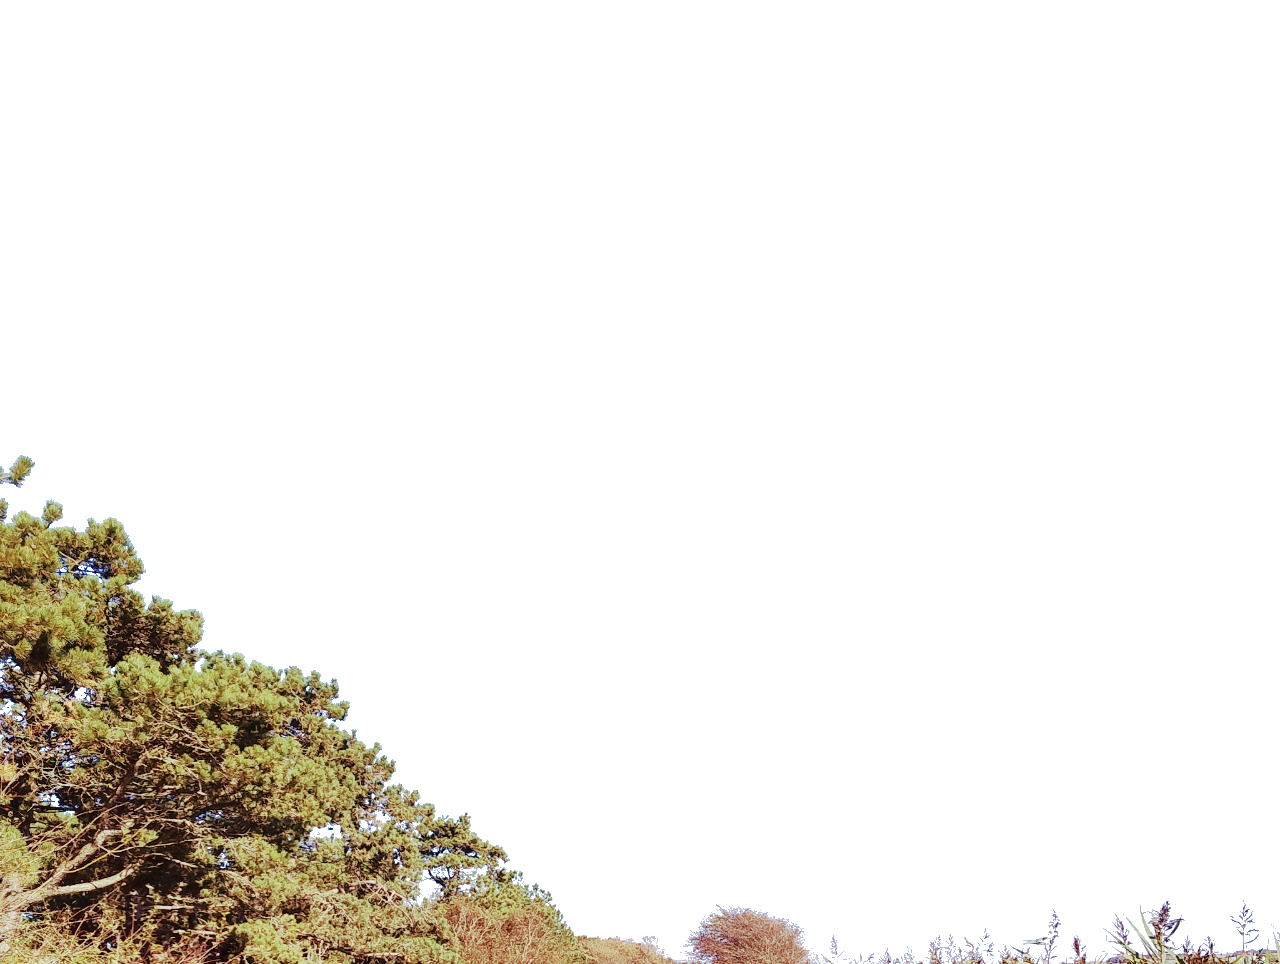
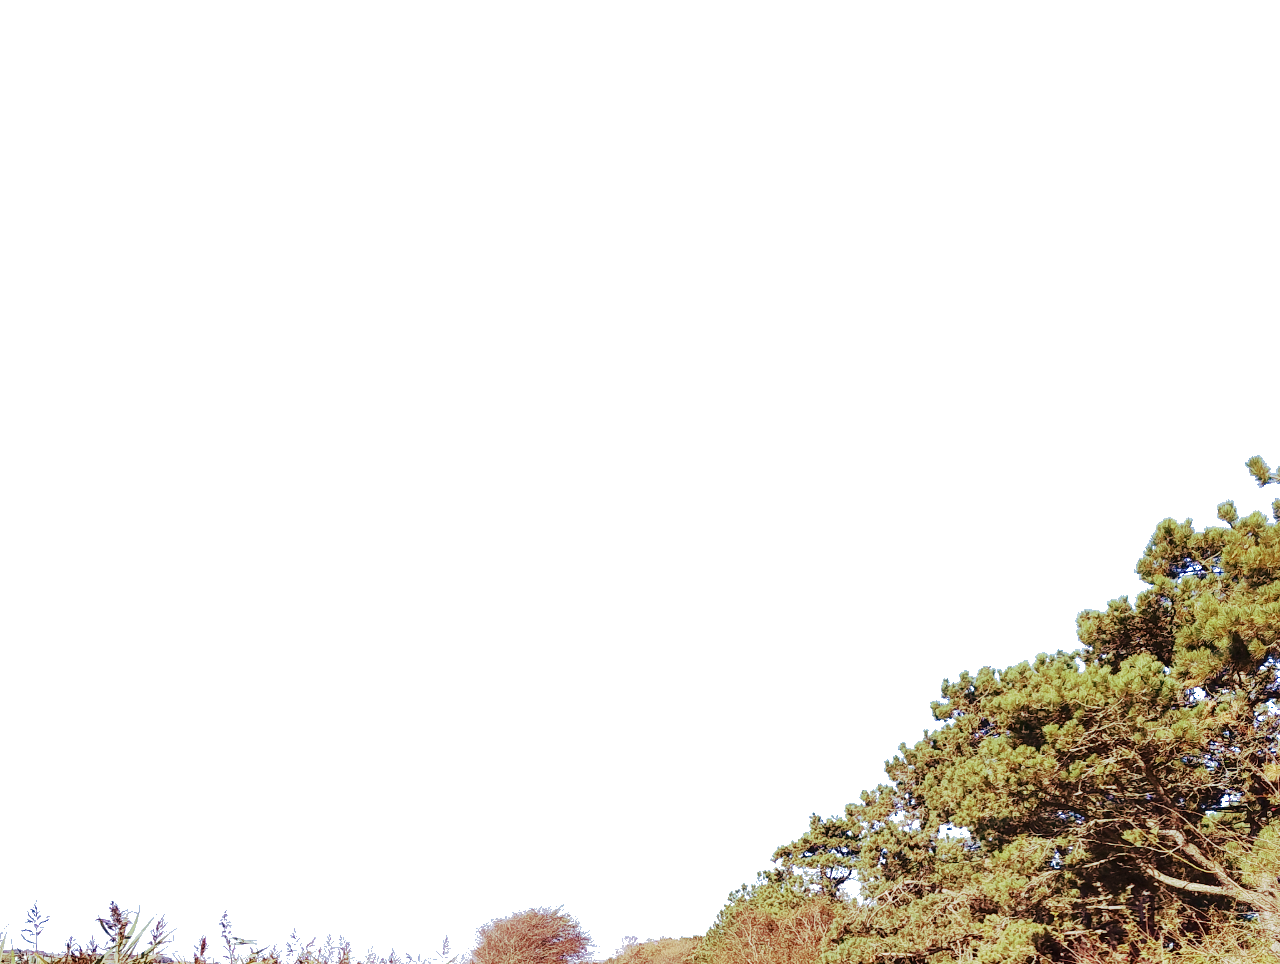
Style introscreen

Changed region(s): [[0.0, 0.4668, 1.0, 1.0]]

diff --git a/src/components/screens/IntroScreen.module.scss b/src/components/screens/IntroScreen.module.scss
@@ -3,13 +3,11 @@
 	display: flex;
 	flex-direction: column;
 	justify-content: flex-start;
-	align-items: center;
 	height: 100%;
-	padding: 25px;
+	padding: 2rem 5rem;
 	max-width: 750px;
 	font-size: min(14px, calc(0.8vw + 1vh));
 	line-height: 2.25;
-	text-align: center;
 	font-weight: bold;
 	color: #790024;
 	mix-blend-mode: color-burn;
@@ -19,13 +17,22 @@
 	display: flex;
 	flex-direction: column;
 	justify-content: space-between;
-	align-items: center;
 	height: 100vh;
 	width: 100%;
 }
 
+.axiImageContainer {
+	display: flex;
+	justify-content: end;
+	bottom: 0;
+	margin: 0;
+	width: 100%;
+}
+
 .axiImage {
+	margin: 0 2rem;
 	width: 300px;
 	max-width: 75%;
-	opacity: 0.8;
+	opacity: 0.9;
+	scale: -1 1;
 }

diff --git a/src/components/screens/IntroScreen.tsx b/src/components/screens/IntroScreen.tsx
@@ -18,7 +18,9 @@ function IntroScreen() {
 					<p>Combining this with the creative skills I've practiced and learnt over the years, I now create unique web-apps, exploring what a bunch of lines of TypeScript and HTML can accomplish.</p>
 					<p>My game artist background is still here, though! In my free time (and if I'm not programming), I enjoy drawing, 3D modeling, cooking, and being a cartoon dragon online. I've also been getting a bit more into maker electronics and reading!</p>
 				</div>
-				<img src={axi} alt="Axi" className={styles.axiImage} />
+				<div className={styles.axiImageContainer}>
+					<img src={axi} alt="Axi" className={styles.axiImage} />
+				</div>
 			</div>
 		</ImageSlide >
 	);

diff --git a/src/data/constants.ts b/src/data/constants.ts
@@ -1,1 +1,1 @@
-export const majorProjectCount = 5;
+export const majorProjectCount = 3;
